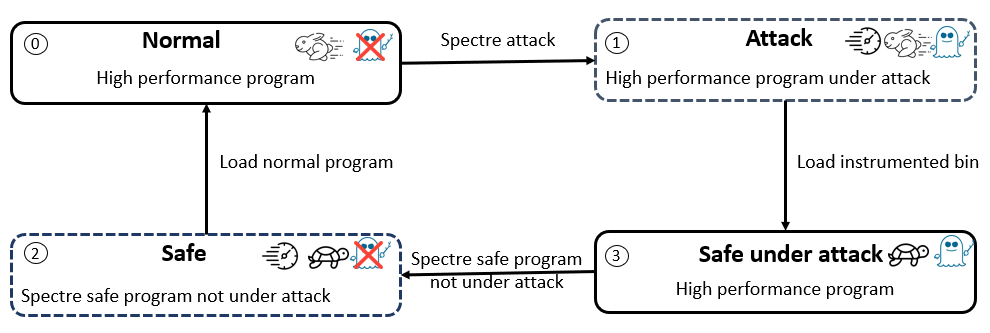
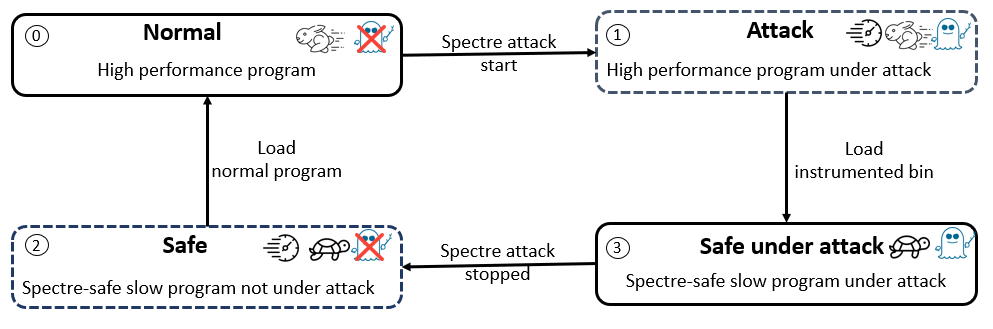
update README

diff --git a/README.md b/README.md
@@ -1,7 +1,61 @@
-# Specdefender <img src="https://github.com/amit-choudhari/Specdefender/blob/main/images/icon.png" width=20% height=20%>
-Tool to dynamically defend against spectre attack.
+<img src="https://github.com/amit-choudhari/Specdefender/blob/main/images/icon.png" width=20% height=20%>
+# Specdefender
+Static defences against spectre such as load barriers, Retpoline, etc suffers the performance of the process. And dynmaic defences mostly attempt to kill the process. We propose a tool that aims to bring a balance between performance, security and availability. SpecDefender is a tool that dynamically defend against spectre attack.
+![Modules](https://github.com/amitsirius/Specdefender/blob/main/images/specdefender\_modules.png?raw=true)
+## Table of contents
+* [General info](#general-info)
+* [Core components](#core-components)
+* [Working](#working)
+* [TODO](#todo)
 
+## General info
+
+
+
+## Core components
+There are three major components of this tool.
+1. Counter (Counter.py): Collects HPC data of the process under observation for 100ms. 
+2. Detector (detector.py): Detects the presense of Spectre using a pre-trained multi-class model.
+3. Patching (patch.py): Restart the program with spectre defence (load barriers) instrumented in the binary.
 ![Class Diagram](https://github.com/amitsirius/Specdefender/blob/main/images/specdefender\_class\_diagram.png?raw=true)
-![State Diagram](https://github.com/amitsirius/Specdefender/blob/main/images/specdefender\_state.png?raw=true)
-![Working Diagram](https://github.com/amitsirius/Specdefender/blob/main/images/specdefender\_working.png?raw=true)
+
+#### Working:
+When a process is under spectre attack, the attacker tries to continuously mistrain the branch predictor and perform cache attack. This behaviour causes an unusual number of cache misses and speculative loads. Specdefender detects these abnormalities using a pre-trained model and restarts the process with spectre defences.
+![Working Diagram](https://github.com/amitsirius/Specdefender/blob/main/images/specdefender\_working.PNG?raw=true)
+
+In presence of SpecDefender, when a process is attacked by spectre it transitions through 4 states. 
+1. Normal: Spectre-unsafe high performance program
+2. Attack: Spectre-unsafe high performance program under attack [transient state]
+3. safe under attack: Spectre-safe slow program under attack
+4. safe: Spectre-safe slow program not under attack
+![State Diagram](https://github.com/amitsirius/Specdefender/blob/main/images/specdefender\_state.PNG?raw=true)
+## Usage
+Run the detector.py file along with sample spectre test code from /test directory.
+![usage](https://github.com/amitsirius/Specdefender/blob/main/images/specdefender\_usage.PNG?raw=true)
+## Original paper
+
+```
+@inproceedings{10.1145/3560834.3563830,
+author = {Choudhari, Amit and Guilley, Sylvain and Karray, Khaled},
+title = {SpecDefender: Transient Execution Attack Defender Using Performance Counters},
+year = {2022},
+isbn = {9781450398848},
+publisher = {Association for Computing Machinery},
+address = {New York, NY, USA},
+url = {https://doi.org/10.1145/3560834.3563830},
+doi = {10.1145/3560834.3563830},
+booktitle = {Proceedings of the 2022 Workshop on Attacks and Solutions in Hardware Security},
+pages = {15–24},
+numpages = {10},
+keywords = {efficient mitigation, speculative execution, spectre, transient execution attack},
+location = {Los Angeles, CA, USA},
+series = {ASHES'22}
+}
+```
+
+## TODO
+- [-] Add support for DBI
+
+**Free Software, Hell Yeah!**
+
 
